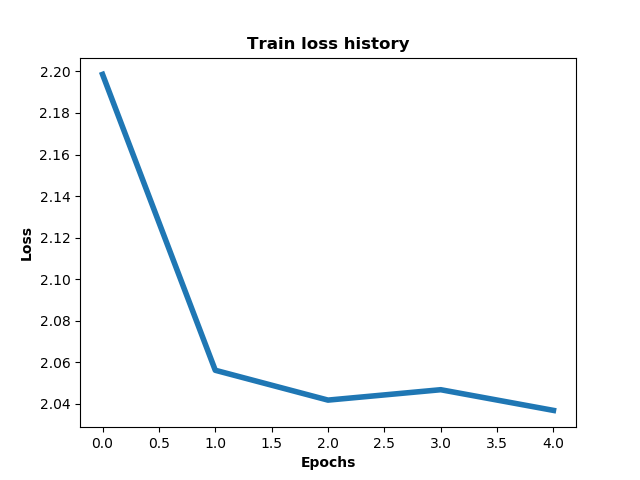
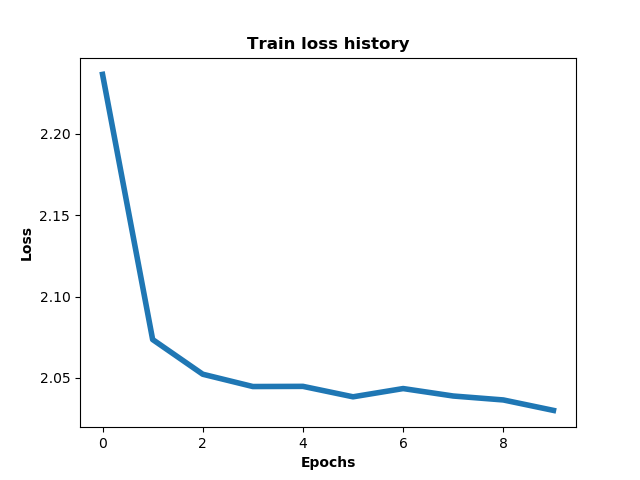
Confusion matrix color change

diff --git a/plots.py b/plots.py
@@ -1,9 +1,8 @@
 
-import matplotlib.pyplot as plt
 import matplotlib.patches as mpatches
 from dataset import importMeta
 import numpy as np
-import numpy as np
+import itertools
 import pandas as pd
 import matplotlib.pyplot as plt
 import seaborn as sns
@@ -35,7 +34,8 @@ def printPlots(classes, dataset_dir, epochs, train_loss, train_acc, test_loss, t
     lossComparison(train_loss, test_loss, epochs)
     accComparison(train_acc, test_acc, epochs)
 
-    cm_analysis(true, predict, 'matrix.png', list(i for i in range(10)), ymap=None, figsize=(10, 10))
+    conf_matrix1(true, predict, classes, list(i for i in range(10)), ymap=None, figsize=(10, 10))
+    conf_matrix2(true, predict, classes, list(i for i in range(10)))
 
 def datasetDistribution(labels, classes, title):
     plt.bar(classes, labels)
@@ -114,32 +114,15 @@ def netAccuracy(classes, accuracy):
     plt.show()
 
 
-def cm_analysis(y_true, y_pred, filename, labels, ymap=None, figsize=(10,10)):
-    """
-    Generate matrix plot of confusion matrix with pretty annotations.
-    The plot image is saved to disk.
-    args:
-      y_true:    true label of the data, with shape (nsamples,)
-      y_pred:    prediction of the data, with shape (nsamples,)
-      filename:  filename of figure file to save
-      labels:    string array, name the order of class labels in the confusion matrix.
-                 use `clf.classes_` if using scikit-learn models.
-                 with shape (nclass,).
-      ymap:      dict: any -> string, length == nclass.
-                 if not None, map the labels & ys to more understandable strings.
-                 Caution: original y_true, y_pred and labels must align.
-      figsize:   the size of the figure plotted.
-    """
+def conf_matrix1(y_true, y_pred, classes, labels, ymap=None, figsize=(10,10)):
 
-    print(y_pred)
-    print(y_pred)
     print(confusion_matrix(y_true, y_pred))
-
 
     if ymap is not None:
         y_pred = [ymap[yi] for yi in y_pred]
         y_true = [ymap[yi] for yi in y_true]
         labels = [ymap[yi] for yi in labels]
+
     cm = confusion_matrix(y_true, y_pred, labels=labels)
     cm_sum = np.sum(cm, axis=1, keepdims=True)
     cm_perc = cm / cm_sum.astype(float) * 100
@@ -156,10 +139,41 @@ def cm_analysis(y_true, y_pred, filename, labels, ymap=None, figsize=(10,10)):
                 annot[i, j] = ''
             else:
                 annot[i, j] = '%.1f%%\n%d' % (p, c)
-    cm = pd.DataFrame(cm, index=labels, columns=labels)
+    cm = pd.DataFrame(cm, index=classes, columns=classes)
     cm.index.name = 'Actual'
     cm.columns.name = 'Predicted'
     fig, ax = plt.subplots(figsize=figsize)
     sns.heatmap(cm, annot=annot, fmt='', ax=ax)
-    plt.savefig(filename)
+    plt.savefig('matrix.png')
+    plt.show()
+
+
+def conf_matrix2(y_true, y_pred, classes, labels, cmap=plt.cm.Blues):
+
+    cm = confusion_matrix(y_true, y_pred, labels=labels)
+    np.set_printoptions(precision=2)
+
+    plt.imshow(cm, interpolation='nearest', cmap=cmap)
+    plt.title('Confusion matrix')
+    plt.colorbar()
+
+    tick_marks = np.arange(len(classes))
+    plt.xticks(tick_marks, rotation=45, ha='right')
+    plt.yticks(np.arange(len(classes)+1))
+    ax = plt.gca()
+
+    ax.set_xticklabels(classes)
+    ax.set_yticklabels(classes)
+
+    thresh = cm.max() / 2.
+    for i, j in itertools.product(range(cm.shape[0]), range(cm.shape[1])):
+        plt.text(j, i, cm[i, j],
+                 horizontalalignment="center",
+                 verticalalignment="center",
+                 color="white" if cm[i, j] > thresh else "black")
+
+    plt.tight_layout()
+    plt.ylabel('True label')
+    plt.xlabel('Predicted label')
+
     plt.show()

diff --git a/finetunig.py b/finetunig.py
@@ -1,0 +1,33 @@
+
+from __future__ import print_function
+from __future__ import division
+import torch
+import torch.nn as nn
+import torch.optim as optim
+import numpy as np
+import torchvision
+from torchvision import datasets, models, transforms
+import matplotlib.pyplot as plt
+import time
+import os
+import copy
+
+def set_parameter_requires_grad(model, feature_extracting):
+    if feature_extracting:
+        for param in model.parameters():
+            param.requires_grad = False
+
+def initialize_model(model_name, num_classes, feature_extract, use_pretrained=True):
+    """ Alexnet
+    """
+    if model_name == "alexnet":
+        model_ft = models.alexnet(pretrained=use_pretrained)
+        set_parameter_requires_grad(model_ft, feature_extract)
+        num_ftrs = model_ft.classifier[6].in_features
+        model_ft.classifier[6] = nn.Linear(num_ftrs,num_classes)
+        input_size = 224
+
+    return model_ft, input_size
+
+
+

diff --git a/main.py b/main.py
@@ -9,6 +9,7 @@ from model import CNN
 from training import train
 from testing import test
 import plots
+from finetunig import initialize_model
 
 def main(args):
 
@@ -52,12 +53,11 @@ def main(args):
 
     plots.printPlots(classes, args.dataset_dir, args.epochs, train_loss, train_acc, test_loss, test_acc, class_acc, predict, true)
 
-
 if __name__ == '__main__':
 
     parser = argparse.ArgumentParser()
     parser.add_argument('dataset_dir', type=Path)
-    parser.add_argument('--epochs', type=int, default=5)
+    parser.add_argument('--epochs', type=int, default=10)
     parser.add_argument('--batch_size', type=int, default=4)
     parser.add_argument('--device', choices=['cpu', 'cuda'], default='cpu')
     args = parser.parse_args()
